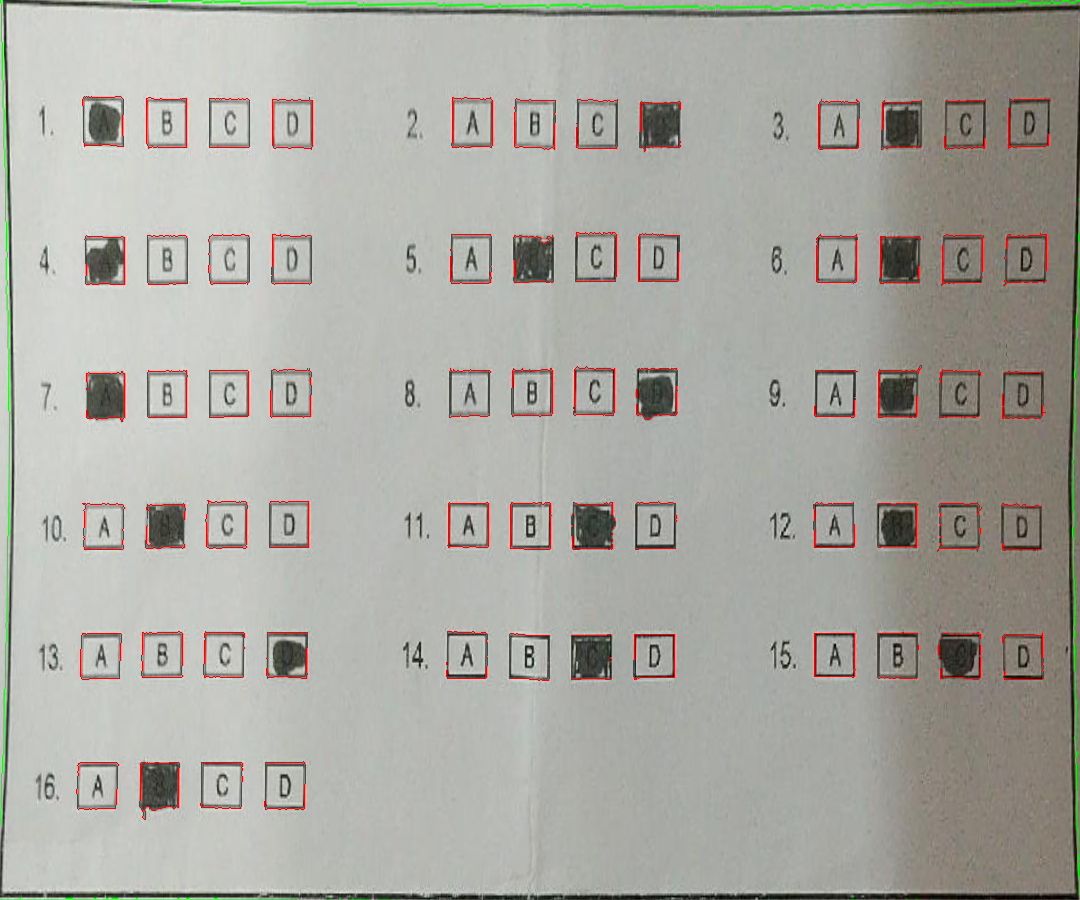
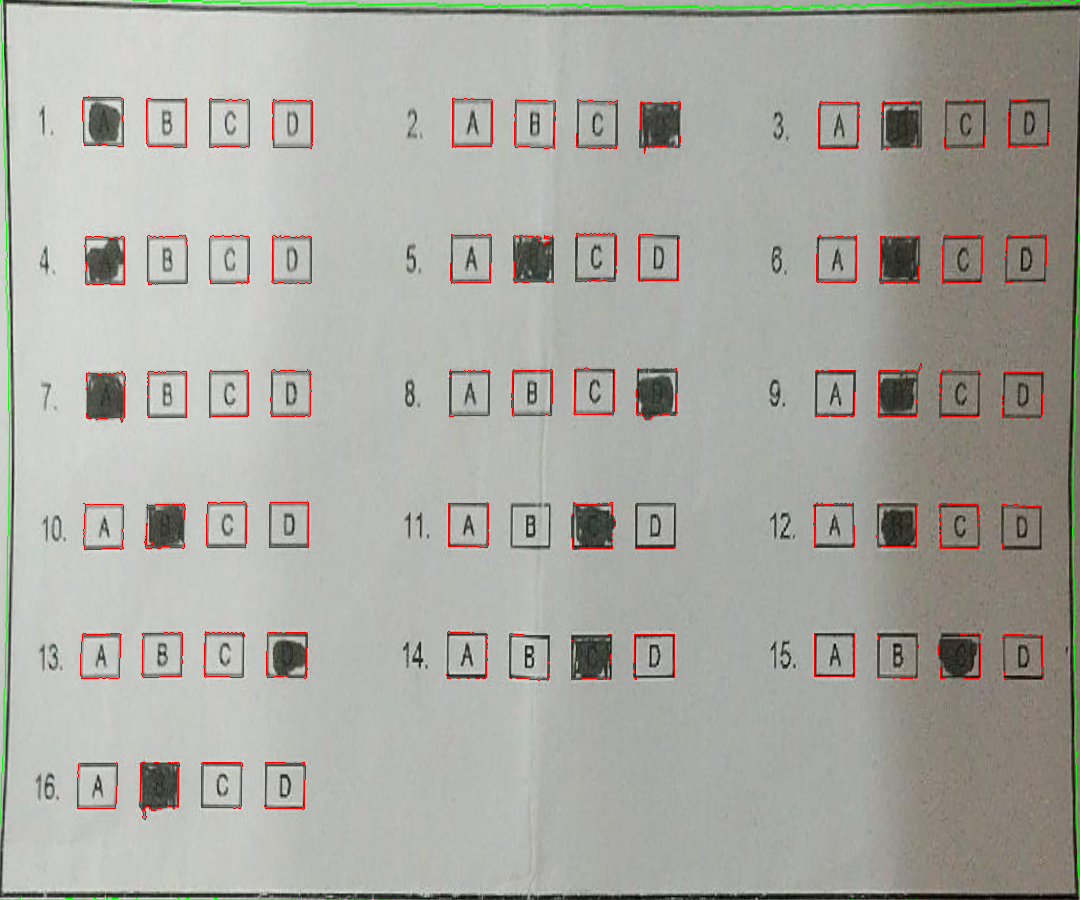
补轮廓逻辑基本成型，需要在调试中调整参数检测bug

diff --git a/answer-sheet-scan/utils.py b/answer-sheet-scan/utils.py
@@ -243,23 +243,55 @@ def get_median(data):
         median = data[(size-1)//2]
         data[0] = median
     return data[0]
+def get_ave(data):
+    sum = 0
+    for x in data:
+        sum += x;
+    return sum / len(data) 
+
 def checkRect(rect1,rect2):
-    if abs(rect1[0]-rect2[0]) < 5 and abs(rect1[1] - rect2[2]) < 5 and abs( \
-        rect1[2] - rect2[2])<5 and abs(rect1[3]-rect2[3])<5: #位置和大小都匹配
+    th = 6
+    if abs(rect1[0]-rect2[0]) < th and abs(rect1[1] - rect2[1]) < th*1.5 and abs( \
+        rect1[2] - rect2[2])<th and abs(rect1[3]-rect2[3])<th: #位置和大小都匹配
+        print 1
         return 1
-    elif abs(rect1[2]-rect2[2]) < 5 and abs(rect1[3]- rect2[3])< 5 and abs(\
-        rect1[1]-rect2[1])<5:# 在同一个水平线上，但是间距不对，中间可能有遗漏
+    elif abs(rect1[2]-rect2[2]) < th and abs(rect1[3]- rect2[3])< th and abs(\
+        rect1[1]-rect2[1])<th:# 在同一个水平线上，但是间距不对，中间可能有遗漏
+        print 2
         return 2
     else:
+        print 3
         return 3
     
+
 def sort_by_row_hs(cnts_pos):
+    choice_row_count = get_choice_row_count()
+    count = 0
+    rows = []
+    print type(cnts_pos[0])
+    threshold = get_min_row_interval(cnts_pos)
+    for i in range(choice_row_count):
+        cols = cnts_pos[i * settings.CHOICE_COL_COUNT - count:(i + 1) * settings.CHOICE_COL_COUNT - count]
+        # threshold = _std_plus_mean(cols)
+        temp_row = [cols[0]]
+        for j, col in enumerate(cols[1:]):
+            temp_row.append(col)
+        count += settings.CHOICE_COL_COUNT - len(temp_row)
+        temp_row.sort(key=lambda x: x[0])
+        rows.append(temp_row)
+
+    # insert_no_full_row(rows)
+
+    return rows   
+
+    
+def sort_by_row_hs2(cnts_pos):
     
     #1.计算边界的值
-    min_left = min(cnts_pos, key=lambda x: x[0])[0]
-    max_right = max(cnts_pos, key=lambda x: x[0])[0]
-    min_top = min(cnts_pos, key=lambda x: x[1])[1]
-    max_top = max(cnts_pos, key=lambda x: x[1])[1]
+    min_left = min(cnts_pos, key=lambda x: x[0])[0]+5
+    max_right = max(cnts_pos, key=lambda x: x[0])[0]-5
+    min_top = min(cnts_pos, key=lambda x: x[1])[1]+5
+    max_top = max(cnts_pos, key=lambda x: x[1])[1]-5
 
     
     #2.将矩形按照一条龙放入队列
@@ -281,39 +313,62 @@ def sort_by_row_hs(cnts_pos):
                     else:
                         choice_maigins.append(pos2[0]-temp_row[j][0]-temp_row[j][2])
             queues.extend(temp_row)
-            temp_row = [pos]
-            choice_maigin_y.append(pos[1]-cnts_pos[i][1])
+            temp_row = [pos] ## 不一定是第一个因为没有排序
+            choice_maigin_y.append(pos[1]-queues[-1][1])
     queues.extend(temp_row) 
     # 选项之间左右的间距，题目之间左右的间距，选项之间的上下间距        
-    choice_margin_x = get_median(choice_maigins)
-    question_margin_x = get_median(question_margins)
-    question_margin_y = get_median(choice_maigin_y)
+    choice_margin_x =  get_ave(choice_maigins)#get_median(choice_maigins)
+    question_margin_x = get_ave(question_margins) #get_median(question_margins)
+    question_margin_y = get_ave(choice_maigin_y)#get_median(choice_maigin_y)
     #宽度和高度
-    cell_height = get_median([x[2] for x in queues])
-    cell_width = get_median([x[3] for x in queues])
+    cell_height = get_ave([x[3] for x in queues])
+    cell_width = get_ave([x[2] for x in queues])
     #3.对队列里面的值有效性和完整性进行判断和修复
-    final_queue = []
-    first_cell = queues[1]
     
+    final_rows = []
+    first_cell = queues[0]
     if checkRect(first_cell, (min_left,min_top,cell_width,cell_height)) == 1:
         final_queue = [first_cell]
     else:
         final_queue = [(min_left,min_top,cell_width,cell_height)] #自己补全第一个
     for i,pos in enumerate(queues[1:]):
         last_rect = final_queue[-1]#取队列里面倒数第一个
-        if (i+1) % settings.CHOICE_COL_COUNT == 1:# 一行第一个元素
-            expect_rect = (min_left,last_rect[1]+question_margin_y+cell_height,cell_width,cell_height) #预估计矩形
-        if (i+1) % settings.CHOICES_PER_QUE == 0 and (i+1) < settings.CHOICES_PER_QUE : # 相邻的问题
+        if (i+1) % settings.CHOICE_COL_COUNT == 0 and i > 1:# 一行第一个元素
+            print '----' + str(i)
+            expect_rect = (min_left,last_rect[1]+question_margin_y,cell_width,cell_height) #预估计矩形
+        elif (i+1) % settings.CHOICES_PER_QUE == 0 and (i+1) < settings.CHOICE_COL_COUNT : # 相邻的问题
+            print '======' + str(i)
             expect_rect = (last_rect[0]+last_rect[2]+question_margin_x,last_rect[1],cell_width,cell_height) #预估计矩形 
         else:
+            print '-=-=-=' + str(i)
             expect_rect = (last_rect[0]+last_rect[2]+choice_margin_x,last_rect[1],cell_width,cell_height)
         check_result = checkRect(expect_rect,pos)    
         if check_result == 1 or check_result == 3:
             final_queue.append(pos)
         elif check_result == 2:
             final_queue.append(expect_rect)
-            final_queue.append(pos)   
-    return final_queue
+            final_queue.append(pos) 
+    if len(final_queue) != settings.CHOICE_CNT_COUNT:
+        print "题目数量检测错误"
+        exit
+    ##对最后的队列进行分行
+   
+    choice_row_count = get_choice_row_count()
+    count = 0
+    rows = []
+    #print type(cnts_pos[0])
+    threshold = get_min_row_interval(final_queue)
+    for i in range(choice_row_count):
+        cols = final_queue[i * settings.CHOICE_COL_COUNT - count:(i + 1) * settings.CHOICE_COL_COUNT - count]
+        # threshold = _std_plus_mean(cols)
+        temp_row = [cols[0]]
+        for j, col in enumerate(cols[1:]):
+            temp_row.append(col)
+        count += settings.CHOICE_COL_COUNT - len(temp_row)
+        temp_row.sort(key=lambda x: x[0])
+        rows.append(temp_row)    
+    return rows
+
 
 def sort_by_col(cnts_pos):
     # TODO

diff --git a/answer-sheet-scan/sheet.py b/answer-sheet-scan/sheet.py
@@ -9,7 +9,7 @@ import settings
 #from settings import ANS_IMG_THRESHOLD, CNT_PERIMETER_THRESHOLD, CHOICE_IMG_THRESHOLD, ANS_IMG_DILATE_ITERATIONS, \
 #    ANS_IMG_ERODE_ITERATIONS, CHOICE_IMG_DILATE_ITERATIONS, CHOICE_IMG_ERODE_ITERATIONS, CHOICE_MAX_AREA, \
     #CHOICE_CNT_COUNT, ANS_IMG_KERNEL, CHOICE_IMG_KERNEL, CHOICE_MIN_AREA
-from utils import detect_cnt_again, get_init_process_img, get_bright_process_img, get_max_area_cnt, get_ans,sort_by_row_hs
+from utils import detect_cnt_again, get_init_process_img, get_bright_process_img, get_max_area_cnt, get_ans,sort_by_row_hs,sort_by_row_hs2
 
 '''
 def get_choice_area(areas):
@@ -137,14 +137,14 @@ def get_answer_from_sheet(base_img):
     cv2.imwrite(obj_dir+"/"+'wait_draw5.png', wait_draw)
     cv2.waitKey(0)    
     
-    if len(question_cnts) != settings.CHOICE_CNT_COUNT:
-        print "数目错误 %d %d" %(len(question_cnts),settings.CHOICE_CNT_COUNT)
-        exit()    
+    #if len(question_cnts) != settings.CHOICE_CNT_COUNT:
+    #    print "数目错误 %d %d" %(len(question_cnts),settings.CHOICE_CNT_COUNT)
+    #    exit()    
     #对轮廓之上而下的排序
     question_cnts, cnts_pos = contours.sort_contours(question_cnts, method="left-to-right")
     question_cnts, cnts_pos = contours.sort_contours(question_cnts, method="top-to-bottom")
    
-    rows = sort_by_row_hs(list(cnts_pos))
+    rows = sort_by_row_hs2(list(cnts_pos))
     get_ans(ans_img, rows)
 
    

diff --git a/answer-sheet-scan/settings.py b/answer-sheet-scan/settings.py
@@ -54,7 +54,7 @@ CHOICE_MAX_AREA = 6000
 CHOICE_MIN_AREA = 4500
 
 # 总共选项框 + 题号的个数，例如一行3题，总共20列，所以有3 * 20 * 4 + 3 * 20
-CHOICE_CNT_COUNT = 68
+CHOICE_CNT_COUNT = 64
 
 # 调整亮度的竖向分块数目
 PROCESS_BRIGHT_COLS = 18

diff --git a/answer-sheet-scan/test_sheet.py b/answer-sheet-scan/test_sheet.py
@@ -5,7 +5,7 @@ import time
 
 start = time.clock()
 
-image_name = "0013.jpg"; ##0006 0007 
+image_name = "0002.jpg"; ##0006 0007 
 
 get_answer_from_sheet("img/new/"+image_name);
 end = time.clock()
